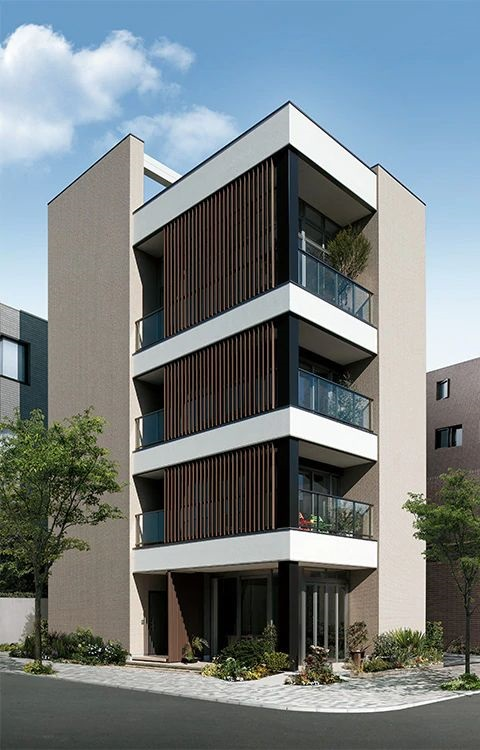
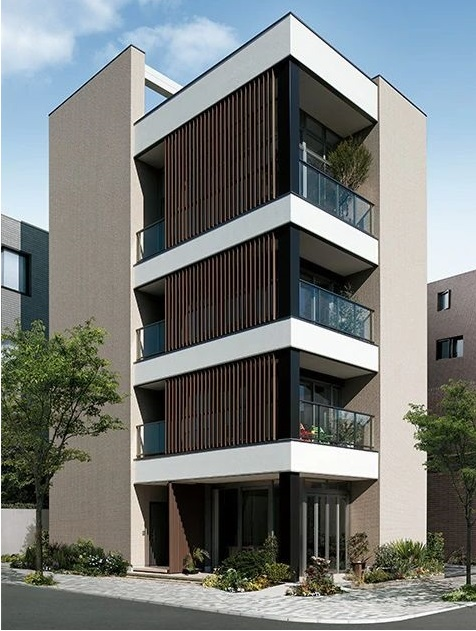
Pagina Proyectos Actualizada IMG

diff --git a/pages/proyectos.html b/pages/proyectos.html
@@ -75,24 +75,24 @@
 
         <section class="proyectos_img">
             <div class="proyec_selec">
-                <img src="../assets/img/imagen casa 1.jpg" alt="Proyecto 1" title="Proyecto 1" class="proyectos 1">
-                <p>Descripcion 1 Casa de hormigón moderna: Esta casa tiene líneas limpias y minimalistas, con grandes ventanales que permiten entrar mucha luz natural. El hormigón se combina con elementos de acero y madera para crear un ambiente contemporáneo y elegante.. Molestias iste eveniet obcaecati! Distinctio, ad recusandae?</p>
+                <img src="../assets/img/imagen casa 1.jpg" alt="Casa Proyecto 1" title="Proyecto 1" class="proyectos 1">
+                <p>Casa de hormigón moderna: Esta casa tiene líneas limpias y minimalistas, con grandes ventanales que permiten entrar mucha luz natural. El hormigón se combina con elementos de acero y madera para crear un ambiente contemporáneo y elegante.. Molestias iste eveniet obcaecati! Distinctio, ad recusandae?</p>
             </div>
             <div class="proyec_selec">
-                <img src="../assets/img/imagen-casa2.jpg" alt="Proyecto 2" title="Proyecto 2" class="proyectos 2">
-                <p>Descripcion 2 Casa de hormigón rústica: Esta casa tiene un estilo más rústico, con paredes de hormigón a la vista y techos de madera. Los acabados son más naturales, con detalles en piedra y hierro forjado. El diseño es acogedor y cálido, perfecto para una casa de campo o de montaña. Maiores incidunt hic qui nihil iure vero?</p>
+                <img src="../assets/img/imagen-casa2.jpg" alt="Casa Proyecto 2" title="Proyecto 2" class="proyectos 2">
+                <p>Casa de hormigón rústica: Esta casa tiene un estilo más rústico, con paredes de hormigón a la vista y techos de madera. Los acabados son más naturales, con detalles en piedra y hierro forjado. El diseño es acogedor y cálido, perfecto para una casa de campo o de montaña. Maiores incidunt hic qui nihil iure vero?</p>
             </div>
             <div class="proyec_selec">
-                <img src="../assets/img/imagen casa 3.jpg" alt="Proyecto 3" title="Proyecto 3" class="proyectos 3">
-                <p>Descripcion 3 Casa de hormigón minimalista: Esta casa tiene un diseño simple y funcional, con líneas rectas y espacios abiertos. El hormigón se utiliza en su forma más pura, sin adornos ni detalles superfluos. Los interiores son amplios y diáfanos, creando una sensación de amplitud y modernidad. Mollitia quaerat facere ipsa atque aspernatur quidem?</p>
+                <img src="../assets/img/imagen-casa3.jpg" alt="Casa Proyecto 3" title="Proyecto 3" class="proyectos 3">
+                <p>Casa de hormigón minimalista: Esta casa tiene un diseño simple y funcional, con líneas rectas y espacios abiertos. El hormigón se utiliza en su forma más pura, sin adornos ni detalles superfluos. Los interiores son amplios y diáfanos, creando una sensación de amplitud y modernidad. Mollitia quaerat facere ipsa atque aspernatur quidem?</p>
             </div>
             <div class="proyec_selec">
-                <img src="../assets/img/imagen casa 1.jpg" alt="Proyecto 1" title="Proyecto 1" class="proyectos 1">
-                <p>Descripcion 1 Lorem ipsum dolor sit amet consectetur adipisicing elit. Voluptatum tempore voluptatibus perspiciatis vero velit error.</p>
+                <img src="../assets/img/imagen-edificio1.jpg" alt="Edificio Moderno" title="Proyecto Edificio" class="proyectos 1 encuadre">
+                <p>Un imponente edificio moderno de hormigón, hierro, vidrio y madera, combina elegancia y funcionalidad, con líneas vanguardistas y una estética contemporánea que lo hace destacar en el paisaje urbano.</p>
             </div>
             <div class="proyec_selec">
-                <img src="../assets/img/imagen casa 2.jpg" alt="Proyecto 2" title="Proyecto 2" class="proyectos 2">
-                <p>Descripcion 2 Lorem ipsum dolor sit amet consectetur adipisicing elit. Quia ducimus enim at libero sapiente impedit!</p>
+                <img src="../assets/img/imagen-proyecto1.jpg" alt="Proyecto Edif Moderno" title="Proyecto Moderno" class="proyectos 2 encuadre">
+                <p>Es una visión vanguardista de la arquitectura, con formas orgánicas, materiales innovadores y tecnología avanzada, que redefine el paisaje urbano con su audaz diseño.</p>
             </div>
             <div class="proyec_selec">
                 <img src="../assets/img/imagen casa 3.jpg" alt="Proyecto 3" title="Proyecto 3" class="proyectos 3">

diff --git a/scss/style.scss b/scss/style.scss
@@ -274,6 +274,9 @@ header{
         padding: 10px;
         background-color: rgba(128, 128, 128, 0.5);
         transition: all .5s ease-in;
+        .encuadre{
+            height: 70%;
+        }
         &:hover{
             background-color: rgba(204, 200, 200, 0.05);
             transform: scale(1.03);

diff --git a/css/style.css b/css/style.css
@@ -290,6 +290,9 @@ header {
   background-color: rgba(128, 128, 128, 0.5);
   transition: all 0.5s ease-in;
 }
+.proyectos_img .proyec_selec .encuadre {
+  height: 70%;
+}
 .proyectos_img .proyec_selec:hover {
   background-color: rgba(204, 200, 200, 0.05);
   transform: scale(1.03);
